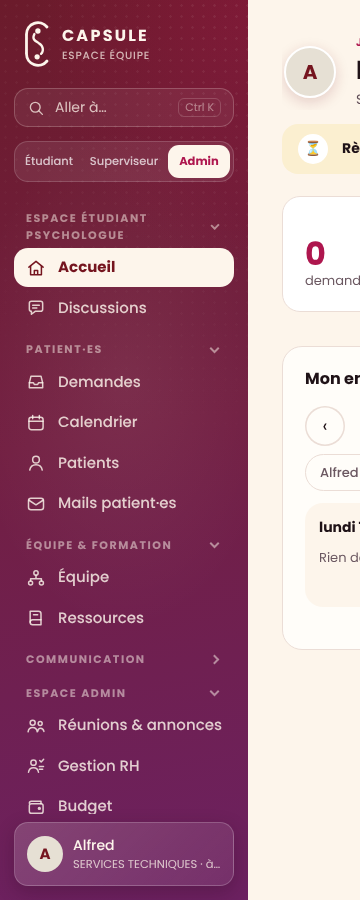
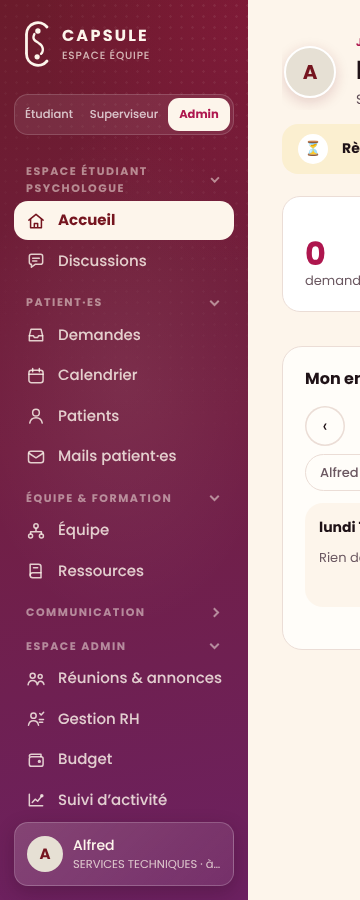
Menu : retrait du bouton « Aller à… » (le raccourci Ctrl+K reste actif)
Claude-Session: https://claude.ai/code/session_013DnL3eviJL9tU8AAhPtCrd

diff --git a/gestion.html b/gestion.html
@@ -387,7 +387,6 @@ aside{overflow:hidden!important}
 
 <div id="app" class="hide">
 <aside><div class="brand"><span data-logo="48" data-mono="#FDF5EB"></span><span class="wm">CAPSULE<small>Espace équipe</small></span></div>
-<button type="button" id="goto" class="gt" aria-label="Aller à une page (Ctrl K)"><svg viewBox="0 0 24 24"><circle cx="11" cy="11" r="6.5"/><path d="M16 16l4.5 4.5"/></svg><span>Aller à…</span><kbd>Ctrl K</kbd></button>
 <div id="modesw" class="msw hide" role="group" aria-label="Mode d’affichage"><span>Mode</span><button type="button" data-mode="etu" title="Passer en mode étudiant psychologue">Étudiant</button><button type="button" data-mode="sup" title="Passer en mode superviseur·e">Superviseur</button><button type="button" data-mode="admin" title="Passer en mode admin">Admin</button></div>
 <button class="nv on" data-v="1"><svg viewBox="0 0 24 24"><path d="M4 13l2-8h12l2 8v6H4z"/><path d="M4 13h5l1 2h4l1-2h5"/></svg>Demandes<b id="nbn" class="hide"></b></button>
 <button class="nv" data-v="2"><svg viewBox="0 0 24 24"><rect x="3.5" y="5" width="17" height="15" rx="3"/><path d="M3.5 10h17M8 3v4M16 3v4"/></svg>Calendrier</button>
@@ -969,7 +968,7 @@ function gotoOpen(){
  $('gq').onkeydown=function(e){if(e.key==='ArrowDown'){sel=Math.min(l.length-1,sel+1);l=draw();e.preventDefault()}else if(e.key==='ArrowUp'){sel=Math.max(0,sel-1);l=draw();e.preventDefault()}else if(e.key==='Enter'&&l[sel]){go(all.indexOf(l[sel]));e.preventDefault()}};
  $('gl').onclick=function(e){var b=e.target.closest('button[data-i]');if(b)go(+b.dataset.i)};
  $('gq').focus()}
-$('goto').onclick=gotoOpen;
+if($('goto'))$('goto').onclick=gotoOpen;
 document.addEventListener('keydown',function(e){if((e.ctrlKey||e.metaKey)&&e.key.toLowerCase()==='k'){e.preventDefault();gotoOpen()}});
 /* Regroupements du menu : une entrée de menu ouvre un ensemble de pages reliées par des onglets (les pages elles-mêmes ne changent pas). */
 var HUBS=[{k:'com',lb:'Publications & charte',tabs:[[12,'Publications'],[13,'Charte graphique']]}],curHubs=[];

diff --git a/MODIFIER-LE-SITE.md b/MODIFIER-LE-SITE.md
@@ -212,7 +212,7 @@ Règle de calcul : engagé = dépenses « à payer » + honoraires ou gratificat
 Export Excel : feuilles Synthèse, Dépenses, Supervisions, Stagiaires. Code : `netlify/lib/budget.mjs` (store Blobs `budget` : `cfg`, `s/…` stagiaires, `e/…` dépenses, `j/…` justificatifs), `gestion-budget.js`, actions `budget_*`.
 
 ## Navigation (menu de gauche)
-« Aller à… » (haut du menu, ou Ctrl+K / Cmd+K) cherche une page ou un onglet (Budget › Dépenses, Gestion RH › Intervenant·es…). Les titres de groupe du menu se replient d'un clic (état mémorisé dans le navigateur ; « Communication » est replié par défaut ; sur mobile tout reste visible). Pastille sur Gestion RH : dossiers d'intervenant·es à valider + présences à noter.
+« Aller à… » (raccourci clavier Ctrl+K / Cmd+K, le bouton du menu a été retiré) cherche une page ou un onglet (Budget › Dépenses, Gestion RH › Intervenant·es…). Les titres de groupe du menu se replient d'un clic (état mémorisé dans le navigateur ; « Communication » est replié par défaut ; sur mobile tout reste visible). Pastille sur Gestion RH : dossiers d'intervenant·es à valider + présences à noter.
 
 ## Relance des dossiers incomplets et espace superviseur
 **Relance** : chaque lundi matin (fonction planifiée `netlify/functions/relance-dossiers.mjs`, cron `0 7 * * 1`), un mail part aux intervenant·es qui ont une adresse e-mail et dont le dossier est incomplet et non validé : liste des pièces manquantes, adresse /gestion avec l'identifiant (rubrique « Mon dossier »), et la phrase « sans les pièces déposées en ligne, nous ne pourrons pas procéder au paiement ». Pas de relance si la personne a été contactée depuis moins de 7 jours (réglable : 7 ou 14 jours) ni dans les 3 premiers jours après l'ajout. Réglage dans Gestion RH › Intervenant·es (case « Relance automatique », store `config` clé `relance`). Boutons manuels : « Relancer » sur une fiche, « Relancer les N dossiers incomplets » en haut. La date et le nombre de relances s'affichent sur la fiche. Texte du mail : `texteRelance` dans `netlify/lib/interv.mjs`. La phrase sur le paiement figure aussi dans le premier mail et sur la page `/dossier`.
